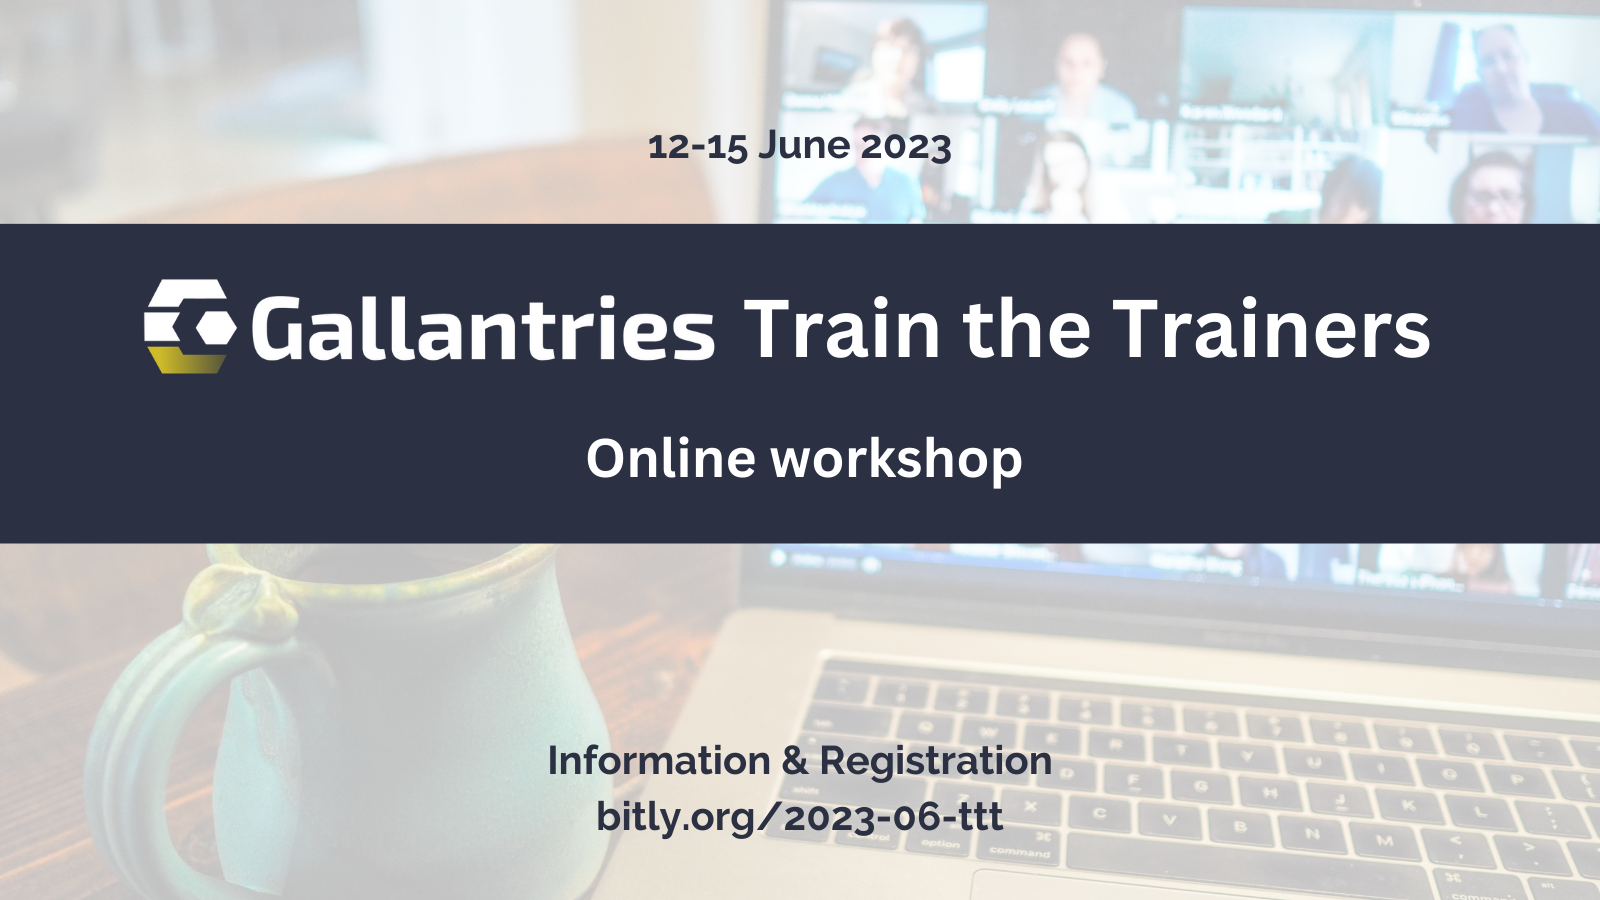
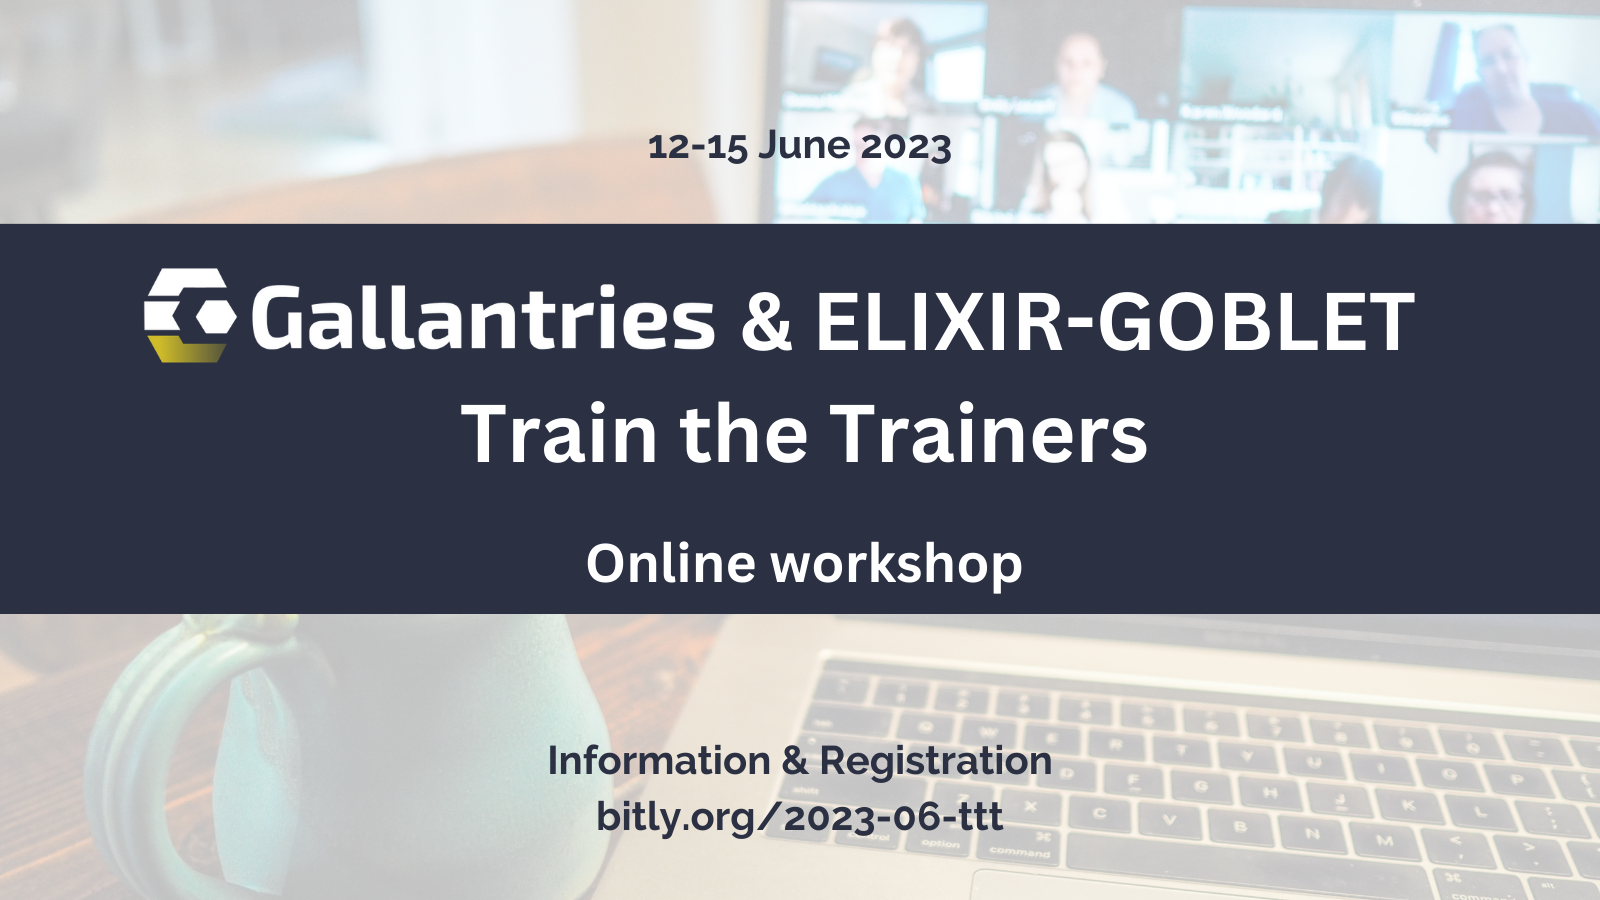
Add ELIXIR-GOBLET label

Changed region(s): [[0.0, 0.5911, 1.0, 0.6844], [0.0938, 0.28, 0.9062, 0.4356], [0.2812, 0.4356, 0.7188, 0.5289]]

diff --git a/content/events/2023-06-12-train-the-trainers/index.md b/content/events/2023-06-12-train-the-trainers/index.md
@@ -1,5 +1,5 @@
 ---
-title: Gallantries Train the Trainers
+title: Gallantries & ELIXIR-GOBLET Train the Trainers
 date: '2023-06-12'
 days: 4
 tease: "This course introduces trainers to learning principles, training techniques, lesson, session, course, and material design as well as assessment and feedback. This course is has been developed for by trainers in the bioinformatics but is suitable for all trainers and educators in higher education."
@@ -12,11 +12,15 @@ tags: [workshop, training]
 subsites: [all]
 ---
 
-![Flyer for the Gallantries Train the Trainers](/events/2023-06-12-train-the-trainers/flyer.png)
+![Flyer for the Gallantries & ELIXIR-GOBLET Train the Trainers](/events/2023-06-12-train-the-trainers/flyer.png)
 
-[Gallantries](https://gallantries.github.io) worked together with ELIXIR-GOBLET Train the Trainer community to develop a Train the Trainer curriculum.
+[Gallantries](https://gallantries.github.io) worked together with the [ELIXIR-GOBLET Train the Trainer community](https://elixir-europe.org/platforms/training/train-the-trainer) to develop a Train the Trainer curriculum, with a focus on Galaxy, and available on the [Galaxy Training Network](https://training.galaxyproject.org/)
 
-To deliver this curriculum, we organize a **4 half-day** **online** and **free workshop** on **June 12-15th, 2023** to introduce trainers to learning principles, training techniques, lesson, session, course, and material design as well as assessment and feedback.
+To deliver this curriculum, we organize a **4 half-day** **online** and **free workshop** on **June 12-15th, 2023** to introduce trainers to:
+- learning principles,
+- training techniques,
+- lesson, session, course, and material design
+- assessment and feedback.
 
 <a  class="btn w-100 btn-primary btn-lg" href="https://forms.gle/uEn2RJ52v8WavyU76">Registration before June 1st</a>
 
@@ -33,7 +37,7 @@ To deliver this curriculum, we organize a **4 half-day** **online** and **free w
 
 # Pedagogical information
 
-- **Target Audience**: Whoever is interested in becoming a trainer/instructor, or improving your training skills.
+**Target Audience**: Whoever is interested in becoming a trainer/instructor, or improving your training skills.
 
   If you have questions like the following ones, this course may be very helpful to you.
   * How learning works?
@@ -46,18 +50,18 @@ To deliver this curriculum, we organize a **4 half-day** **online** and **free w
   * How can I best assess whether learning is occurring and/or has occurred?
   * What works in a classroom and what doesn't?
 
-- **Learning Objectives:**
-  * To get acquainted with Learning principles and how they apply to training
-  * To be able to select and use training techniques that can help enhance learner engagement and participation
-  * To learn how to use assessment and feedback in training
-  * To learn about session, course, and materials design
+**Learning Objectives:**
+* To get acquainted with Learning principles and how they apply to training
+* To be able to select and use training techniques that can help enhance learner engagement and participation
+* To learn how to use assessment and feedback in training
+* To learn about session, course, and materials design
 
-- **Learning Outcome**: By the end of this course, learners will be able to:
-  * Name learning principles that a good teacher/instructor should have in mind
-  * Describe at least three training techniques, drawing on learning principles
-  * Design a training session and a course
-  * Develop assessment questionnaires
-  * Enumerate types of materials needed for each part of a training session or course
+**Learning Outcome**: By the end of this course, learners will be able to:
+* Name learning principles that a good teacher/instructor should have in mind
+* Describe at least three training techniques, drawing on learning principles
+* Design a training session and a course
+* Develop assessment questionnaires
+* Enumerate types of materials needed for each part of a training session or course
 
 # Preliminary schedule
 
